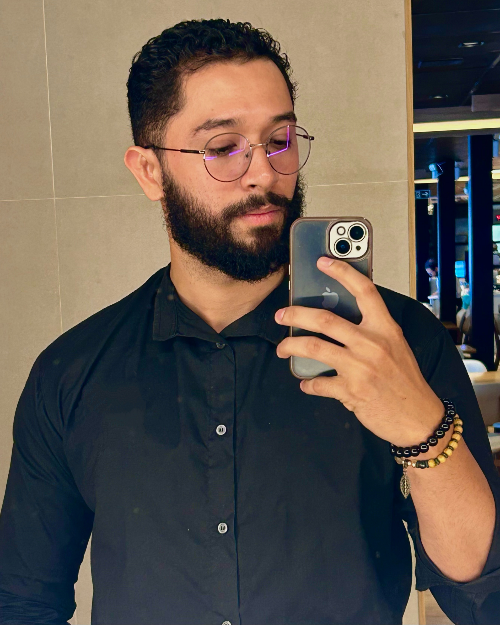
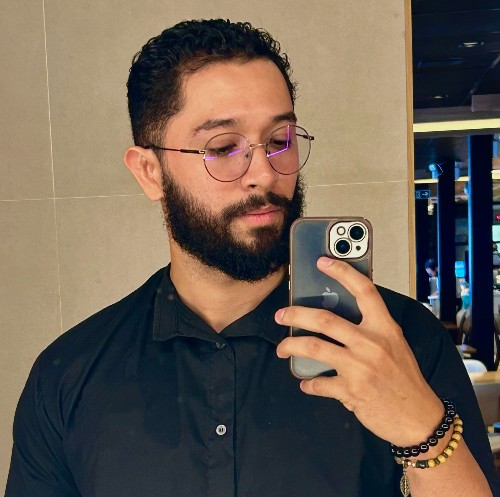
Corrigindo tela do perfil

diff --git a/app/templates/perfil.html b/app/templates/perfil.html
@@ -4,7 +4,6 @@
     <meta charset="UTF-8">
     <meta name="viewport" content="width=device-width, initial-scale=1.0">
     <title>Meu Perfil - Mangut</title>
-    <!-- Favicon -->
     <link rel="shortcut icon" href="{{ url_for('static', filename='img/logo.png') }}" type="image/png">
     <link rel="stylesheet" href="{{ url_for('static', filename='css/style.css') }}">
     <link rel="preconnect" href="https://fonts.googleapis.com">
@@ -19,9 +18,12 @@
             <img src="{{ url_for('static', filename='img/logo.png') }}" alt="Logo Mangut" class="navbar-logo">
         </a>
         <nav class="nav-links">
-            <a href="/">← Voltar às Receitas</a>
+            <a href="/receitas">Receitas</a>
+            <a href="/categorias">Categorias</a>
+            <a href="/sobre">Sobre</a>
         </nav>
         <div class="nav-actions">
+            <a href="/receita/nova" class="btn-primary">+ Nova Receita</a>
             <a href="/logout" class="btn-logout" title="Sair do sistema">🚪 Sair</a>
         </div>
     </header>
@@ -33,7 +35,7 @@
                 <span>{{ usuario.nome[0] | upper }}</span>
             </div>
 
-            <div class="profile-details" style="flex-grow: 1;">
+            <div class="profile-details">
                 <div style="display: flex; align-items: center; justify-content: space-between; flex-wrap: wrap; gap: 1rem;">
                     <div>
                         <div style="display: flex; align-items: center; gap: 0.8rem;">
@@ -48,18 +50,81 @@
                         <p class="profile-phone">📞 {{ usuario.telefone or 'Nenhum telefone cadastrado' }}</p>
                     </div>
 
-                    <!-- Botão de abrir modal para Editar Perfil -->
-                    <div style="display: flex; gap: 0.5rem;">
-                        <button onclick="document.getElementById('edit-profile-modal').style.display='flex'" class="btn-primary" style="font-size: 0.85rem; padding: 0.5rem 0.9rem;">✏ Editar Dados</button>
-                    </div>
+                    <button onclick="document.getElementById('edit-profile-modal').style.display='flex'" class="btn-primary" style="font-size: 0.85rem; padding: 0.5rem 1rem;">
+                        ✏ Editar Dados
+                    </button>
                 </div>
             </div>
+        </section>
+
+        <!-- Seção: Minhas Receitas Publicadas -->
+        <section class="profile-section">
+            <h2>📖 Minhas Receitas ({{ receitas|length }})</h2>
+            {% if receitas %}
+                <div class="recipe-grid">
+                    {% for receita in receitas %}
+                    <div style="display: flex; flex-direction: column; background: var(--bg-card); border-radius: 14px; border: 1px solid var(--border-color); box-shadow: 0 4px 12px var(--card-shadow); overflow: hidden;">
+                        {% if receita.imagem_url %}
+                            <img src="{{ receita.imagem_url }}" alt="{{ receita.nome }}" class="card-img">
+                        {% endif %}
+                        <div class="card-content" style="flex: 1; display: flex; flex-direction: column; justify-content: space-between; padding: 1.3rem;">
+                            <div>
+                                <span class="card-tag">{{ receita.categoria }}</span>
+                                <h3 style="margin: 0.8rem 0 0.4rem 0; font-size: 1.25rem;">{{ receita.nome }}</h3>
+                                <p style="color: var(--text-secondary); font-size: 0.95rem; line-height: 1.5;">{{ receita.descricao }}</p>
+                            </div>
+
+                            <div style="display: flex; justify-content: space-between; align-items: center; margin-top: 1.2rem; pt-top: 0.8rem; border-top: 1px solid var(--border-color); padding-top: 0.8rem;">
+                                <a href="{{ url_for('main.detalhe_receita', id=receita.id) }}" style="color: var(--text-accent); font-weight: 700; text-decoration: none; font-size: 0.9rem;">Ver receita →</a>
+                                <a href="{{ url_for('main.formulario_editar_receita', id=receita.id) }}" style="color: var(--text-secondary); font-size: 0.85rem; text-decoration: none;">✏ Editar</a>
+                            </div>
+                        </div>
+                    </div>
+                    {% endfor %}
+                </div>
+            {% else %}
+                <div style="background: var(--bg-card); padding: 2rem; border-radius: 10px; border: 1px dashed var(--border-color); text-align: center;">
+                    <p style="color: var(--text-secondary);">Você ainda não publicou nenhuma receita.</p>
+                    <a href="/receita/nova" class="btn-primary" style="margin-top: 1rem;">Publicar a primeira receita</a>
+                </div>
+            {% endif %}
+        </section>
+
+        <!-- Seção: Minhas Avaliações Enviadas -->
+        <section class="profile-section">
+            <h2>⭐ Minhas Avaliações ({{ avaliacoes|length }})</h2>
+            {% if avaliacoes %}
+                <div>
+                    {% for av in avaliacoes %}
+                    <div class="review-card-item">
+                        <div style="display: flex; justify-content: space-between; align-items: center; margin-bottom: 0.4rem;">
+                            <a href="{{ url_for('main.detalhe_receita', id=av.receita_id) }}" style="text-decoration: none; font-weight: 700; color: var(--text-accent); font-size: 1.05rem;">
+                                🍲 {{ av.receita_nome }}
+                            </a>
+                            <div style="color: #ffb703; font-size: 1.1rem;">
+                                {% for i in range(av.nota) %}★{% endfor %}
+                            </div>
+                        </div>
+
+                        {% if av.comentario and av.comentario != 'None' %}
+                            <p style="color: var(--text-secondary); font-style: italic; margin-top: 0.3rem;">"{{ av.comentario }}"</p>
+                        {% else %}
+                            <p style="color: var(--text-secondary); font-size: 0.85rem; font-style: italic; margin-top: 0.3rem;">(Avaliação realizada apenas por nota)</p>
+                        {% endif %}
+                    </div>
+                    {% endfor %}
+                </div>
+            {% else %}
+                <div style="background: var(--bg-card); padding: 2rem; border-radius: 10px; border: 1px dashed var(--border-color); text-align: center;">
+                    <p style="color: var(--text-secondary);">Você ainda não avaliou nenhuma receita do site.</p>
+                </div>
+            {% endif %}
         </section>
 
         <!-- Modal de Edição do Perfil -->
         <div id="edit-profile-modal" class="modal-overlay" style="display: none;">
             <div class="modal-box" style="text-align: left; max-width: 480px;">
-                <h3 style="margin-bottom: 1rem;">✏ Editar Dados Pessoais</h3>
+                <h3 style="margin-bottom: 1rem; color: var(--text-accent);">✏ Editar Dados Pessoais</h3>
 
                 <form action="/perfil/editar" method="POST" class="recipe-form">
                     <div class="form-group">
@@ -72,85 +137,32 @@
                         <input type="text" id="telefone" name="telefone" value="{{ usuario.telefone or '' }}" placeholder="(91) 99999-9999">
                     </div>
 
-                    <div style="display: flex; gap: 0.8rem; margin-top: 1rem;">
+                    <div style="display: flex; gap: 0.8rem; margin-top: 0.5rem;">
                         <button type="submit" class="btn-primary" style="flex: 1;">Salvar Alterações</button>
-                        <button type="button" onclick="document.getElementById('edit-profile-modal').style.display='none'" class="btn-secondary-modal" style="flex: 1;">Cancelar</button>
+                        <button type="button" onclick="document.getElementById('edit-profile-modal').style.display='none'" class="btn-primary" style="background: transparent; border: 1px solid var(--border-color); color: var(--text-secondary); flex: 1;">Cancelar</button>
                     </div>
                 </form>
 
                 <hr style="margin: 1.5rem 0; border: none; border-top: 1px solid var(--border-color);">
 
-                <!-- Excluir Conta -->
+                <!-- Zona de Perigo: Excluir Conta -->
                 <div>
+                    <h4 style="color: #d90429; font-size: 0.95rem; margin-bottom: 0.4rem;">⚠ Zona de Perigo</h4>
+                    <p style="color: var(--text-secondary); font-size: 0.85rem; margin-bottom: 0.8rem;">Esta ação excluirá permanentemente sua conta, todas as suas receitas e avaliações.</p>
 
-                    <form action="/perfil/excluir-conta" method="POST" onsubmit="return confirm('ATENÇÃO: Tem certeza que deseja apagar sua conta? Esta ação NÃO pode ser desfeita e apagará todas as suas receitas.');">
+                    <form action="/perfil/excluir-conta" method="POST" onsubmit="return confirm('ATENÇÃO: Tem certeza que deseja apagar sua conta? Esta ação NÃO pode ser desfeita.');">
                         <button type="submit" class="btn-primary" style="background-color: #d90429; width: 100%; font-size: 0.85rem;">🗑 Excluir Minha Conta</button>
                     </form>
                 </div>
             </div>
         </div>
-
-        <!-- Seção: Minhas Receitas Publicadas -->
-        <section class="profile-section">
-            <h2>📖 Minhas Receitas ({{ receitas|length }})</h2>
-            {% if receitas %}
-                <div class="recipe-grid">
-                    {% for receita in receitas %}
-                    <div class="recipe-card">
-                        {% if receita.imagem_url %}
-                            <img src="{{ receita.imagem_url }}" alt="{{ receita.nome }}" class="card-img">
-                        {% endif %}
-                        <div class="card-content">
-                            <div class="card-tag">{{ receita.categoria }}</div>
-                            <h3>{{ receita.nome }}</h3>
-                            <p>{{ receita.descricao }}</p>
-                            <div style="display: flex; justify-content: space-between; align-items: center; margin-top: 1rem;">
-                                <a href="/receita/{{ receita.id }}" class="card-link">Ver receita →</a>
-                                <a href="/receita/{{ receita.id }}/editar" style="color: var(--text-secondary); font-size: 0.85rem; text-decoration: none;">✏ Editar</a>
-                            </div>
-                        </div>
-                    </div>
-                    {% endfor %}
-                </div>
-            {% else %}
-                <p class="no-data-text">Você ainda não publicou nenhuma receita. <a href="/receita/nova" style="color: var(--text-accent); font-weight: 600;">Clique aqui para publicar a primeira!</a></p>
-            {% endif %}
-        </section>
-
-        <hr class="divider">
-
-        <!-- Seção: Minhas Avaliações Enviadas -->
-        <section class="profile-section">
-            <h2>⭐ Minhas Avaliações ({{ avaliacoes|length }})</h2>
-            {% if avaliacoes %}
-                <div class="reviews-list">
-                    {% for av in avaliacoes %}
-                    <div class="review-card">
-                        <div style="display: flex; justify-content: space-between; align-items: center; margin-bottom: 0.4rem;">
-                            <a href="/receita/{{ av.receita_id }}" style="text-decoration: none; font-weight: 700; color: var(--text-accent);">
-                                🍲 {{ av.receita_nome }}
-                            </a>
-                            <div class="review-stars">
-                                {% for i in range(av.nota) %}⭐{% endfor %}
-                            </div>
-                        </div>
-                        <p class="review-comment">"{{ av.comentario }}"</p>
-                    </div>
-                    {% endfor %}
-                </div>
-            {% else %}
-                <p class="no-data-text">Você ainda não avaliou nenhuma receita do site.</p>
-            {% endif %}
-        </section>
     </main>
 
     <footer>
-        <p>&copy; 2026 Mangut. Culinária e cultura do Norte.</p>
+        <p>&copy; 2026 Mangut. Culinária e tradição do Norte.</p>
     </footer>
 
-    <!-- Botão Flutuante de Alternar Tema -->
     <button id="theme-toggle" class="theme-toggle-floating" title="Alternar Modo Escuro">🌙</button>
-
     <script src="{{ url_for('static', filename='js/main.js') }}"></script>
 </body>
 </html>

diff --git a/app/static/css/style.css b/app/static/css/style.css
@@ -794,3 +794,71 @@ footer {
 .recipe-card-link:not(:has(.card-img)) .card-content {
     padding-top: 1.8rem;
 }
+
+/* ========================================================
+   👤 TELA DE PERFIL DO USUÁRIO
+   ======================================================== */
+.profile-header-card {
+    background: var(--bg-card);
+    padding: 2rem;
+    border-radius: 14px;
+    border: 1px solid var(--border-color);
+    box-shadow: 0 4px 14px var(--card-shadow);
+    display: flex;
+    align-items: center;
+    gap: 1.8rem;
+    margin-bottom: 2.5rem;
+}
+
+.profile-avatar {
+    width: 80px;
+    height: 80px;
+    min-width: 80px;
+    border-radius: 50%;
+    background-color: var(--tag-bg);
+    color: var(--tag-text);
+    display: flex;
+    align-items: center;
+    justify-content: center;
+    font-size: 2.2rem;
+    font-weight: 700;
+    border: 2px solid var(--text-accent);
+}
+
+.profile-details {
+    flex-grow: 1;
+}
+
+.profile-details h1 {
+    font-size: 1.8rem;
+    color: var(--text-primary);
+    margin: 0;
+}
+
+.profile-email, .profile-phone {
+    color: var(--text-secondary);
+    font-size: 0.95rem;
+    margin-top: 0.3rem;
+}
+
+.profile-section {
+    margin-bottom: 3rem;
+}
+
+.profile-section h2 {
+    font-size: 1.4rem;
+    color: var(--text-accent);
+    margin-bottom: 1.5rem;
+    border-bottom: 2px solid var(--border-color);
+    padding-bottom: 0.5rem;
+}
+
+/* Card das Minhas Avaliações */
+.review-card-item {
+    background: var(--bg-card);
+    border: 1px solid var(--border-color);
+    border-radius: 10px;
+    padding: 1.2rem;
+    margin-bottom: 1rem;
+    box-shadow: 0 2px 8px var(--card-shadow);
+}
